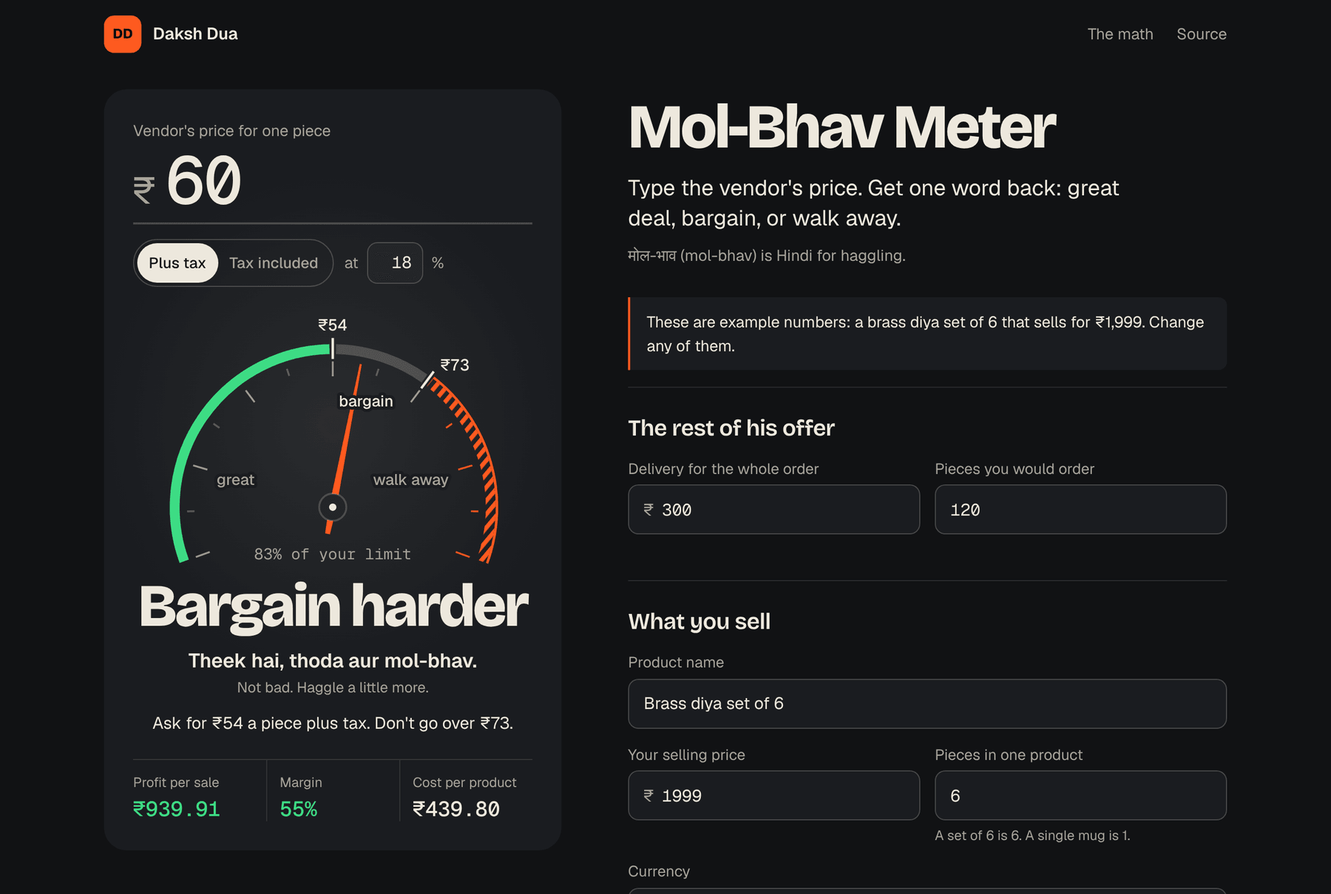
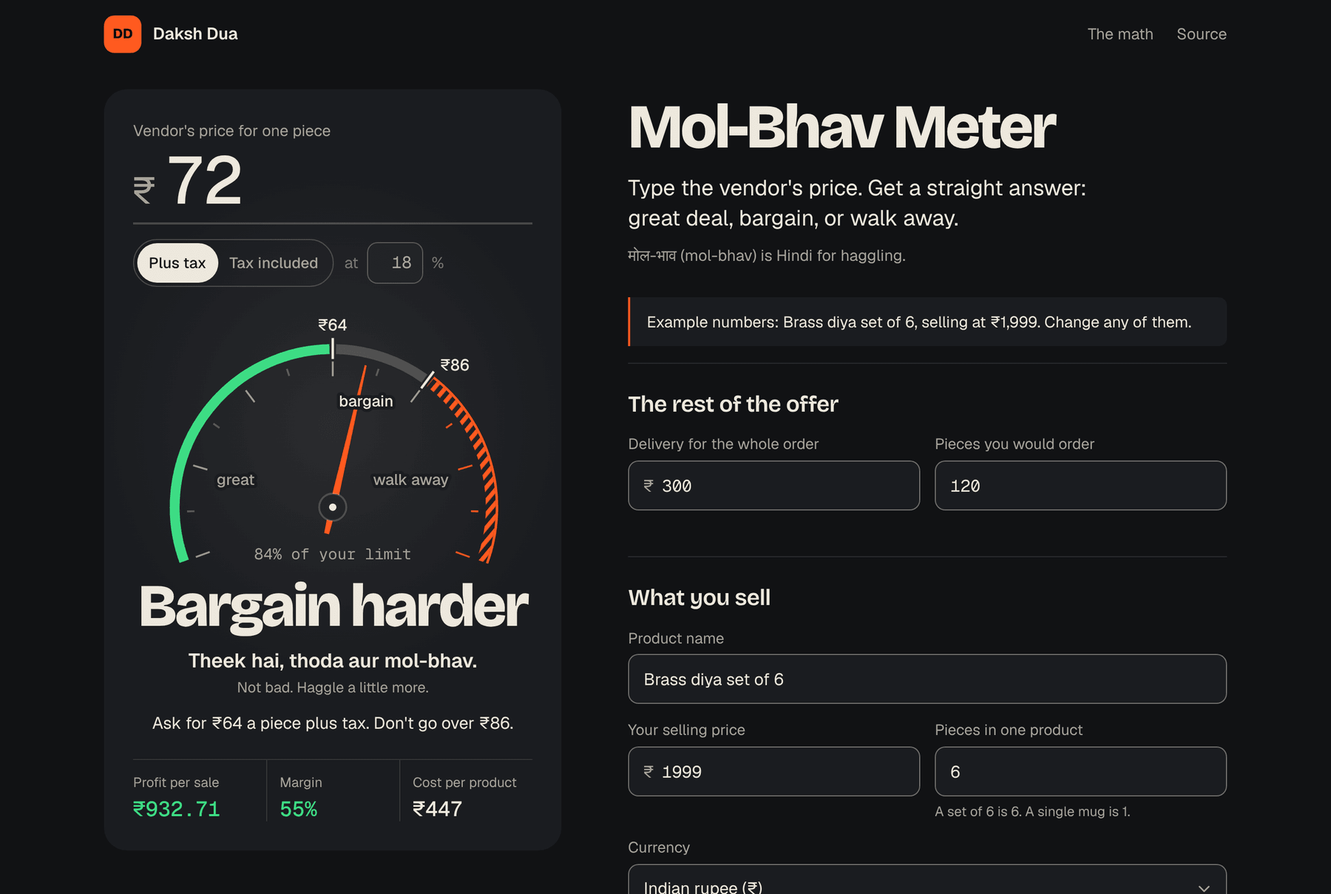
Update docs and screenshots to match the reviewed build
Claude-Session: https://claude.ai/code/session_01SZKJ7kb66Bw7uYQ5yCEDmx

diff --git a/docs/CTO-NOTES.md b/docs/CTO-NOTES.md
@@ -41,7 +41,7 @@ A pure function gets numbers in and gives numbers out, and does nothing else. Sa
 
 ### Unit tests, and one property test
 
-A unit test is a tiny program that runs your code with known inputs and checks the answer. There are 53 here. Most check one hand-picked example. One is different: it invents 500 random deals and checks a rule that must hold for all of them ("if the vendor quotes exactly what we told you to ask for, the cost lands exactly on the line"). That's a property test.
+A unit test is a tiny program that runs your code with known inputs and checks the answer. There are dozens here. Most check one hand-picked example. One is different: it invents 500 random deals and checks a rule that must hold for all of them ("if the vendor quotes exactly what we told you to ask for, the cost lands exactly on the line"). That's a property test.
 
 - **See it:** [`src/core/meter.test.ts`](../src/core/meter.test.ts). Read the test names top to bottom; they're written as plain sentences, so the file doubles as a spec.
 - **Run it:** `npm test`.
@@ -57,23 +57,23 @@ TypeScript is JavaScript where every value has a declared shape. `Shop` and `Off
 
 ### State in a link
 
-The whole deal (all 15 inputs, from your selling price to the vendor's tax rate) is packed into the address: `?price=1999&quote=60&...`. That one trick is both the "remember my numbers" feature and the "share with my partner" feature, with no server and no accounts.
+The whole deal (all 15 inputs, from your selling price to the vendor's tax rate) is packed into a link: `#price=1999&quote=72&...`. That one trick is both the "remember my numbers" feature and the "share with my partner" feature, with no server and no accounts. It sits after the `#` on purpose: browsers never send that part of an address to the website, so the numbers go from one person to the other and nowhere else.
 
 - **See it:** `encodeDeal()` and `decodeDeal()` in [`src/core/deal.ts`](../src/core/deal.ts).
 - **Try it:** press **Copy link**, paste it in a private window.
-- **Say it:** "State lives in the URL, so sharing is free and there is nothing to breach."
+- **Say it:** "State lives in the URL fragment, so sharing needs no backend and the numbers never reach a server."
 
 ### Offline with a service worker
 
 A service worker is a small script the browser keeps on the phone for one site. Ours saves a copy of the app the first time it opens. After that the meter opens with no signal.
 
-- **See it:** [`public/sw.js`](../public/sw.js) (about 50 lines, most of them comments) and [`scripts/stamp-sw.mjs`](../scripts/stamp-sw.mjs), which stamps each build with a version made from the files' contents.
+- **See it:** [`public/sw.js`](../public/sw.js) (short, and commented line by line) and [`scripts/stamp-sw.mjs`](../scripts/stamp-sw.mjs), which stamps each build with a version made from the files' contents.
 - **Try it:** open the live site, switch to airplane mode, reload.
-- **Say it:** "It's an offline-first PWA. The cache is versioned by content hash, so users never get a half-old, half-new app."
+- **Say it:** "It's a PWA that works offline. The app is saved on the first visit, and each build's cache is named by a hash of its contents, so a new build replaces the old one cleanly."
 
 ### CI/CD
 
-CI means a robot runs the tests on every push. CD means that if they pass, the robot also deploys. The whole pipeline is one file.
+CI means a robot runs the tests on every push to main and every pull request. CD means that if they pass on main, the robot also deploys. The whole pipeline is one file.
 
 - **See it:** [`.github/workflows/ship.yml`](../.github/workflows/ship.yml), and the **Actions** tab on GitHub for the live runs.
 - **Say it:** "Main is always deployable. A failing test blocks the release automatically; nobody has to remember to check."
@@ -84,9 +84,10 @@ CI means a robot runs the tests on every push. CD means that if they pass, the r
 | --- | --- |
 | How a verdict is decided | `src/core/meter.ts` |
 | What "great" means (the 75% rule) | `GREAT_FRACTION` at the top of `meter.ts` |
-| Any sentence, saying or the WhatsApp text | `src/core/words.ts` |
+| Anything the meter says: verdicts, sayings, coaching, the WhatsApp text | `src/core/words.ts` |
+| A fixed label on the form | `index.html` |
 | How money is shown, or add a currency | `src/core/format.ts` |
-| The opening example | `EXAMPLE` in `src/core/deal.ts` |
+| The opening example | `EXAMPLE` in `src/core/deal.ts` (some tests expect its numbers, so they'll tell you what else to update) |
 | A colour or a font | `src/styles/brand.css` |
 | Layout and spacing | `src/styles/app.css` |
 | The boxes on the page | `index.html` |
@@ -98,11 +99,11 @@ CI means a robot runs the tests on every push. CD means that if they pass, the r
 | What you see | Likely cause | Where to look | How to check |
 | --- | --- | --- | --- |
 | A number looks wrong | The math, or the form feeding it the wrong box | `meter.ts`, then `readForm()` in `main.ts` | Open **Where the money goes** on the page and add it up by hand. Then write the deal as a test in `meter.test.ts`. If the test passes, the math is fine and the bug is in the wiring. |
-| Blank page | A JavaScript error on start-up | Browser console (right-click, Inspect, Console) | The error names the file and line. A missing `id` in `index.html` gives a message that says exactly which one. |
-| The site still shows the old version | The phone is using its saved copy | `public/sw.js` | Close every tab of the site and reopen. If that fixes it, all is well: the new worker takes over on the next visit by design. |
-| Red X on a commit | A test or the build failed in CI | GitHub, **Actions** tab, click the red run | The log shows the failing test by name. Nothing was deployed, so the live site is still the last good version. |
-| Green check, but the site didn't change | Pages isn't set to deploy from Actions | Repo **Settings**, **Pages**, **Source** | It must say **GitHub Actions**. |
-| A shared link opens the example instead | The link was cut off when pasted | `decodeDeal()` in `deal.ts` | It needs `quote=` in it. Anything else missing falls back to the example's value on purpose. |
+| The page shows, but typing does nothing | A JavaScript error on start-up | Browser console (right-click, Inspect, Console) | The error names the file and line. A missing `id` in `index.html` gives a message that says exactly which one. |
+| The site still shows the old version a few minutes after a deploy | GitHub Pages tells browsers they may reuse files for 10 minutes | Nothing to fix | Wait ten minutes, or hard-refresh. If it's still old, check the Actions tab: the deploy may not have run. |
+| Red X on the very first push, at "Ask GitHub where this site will live" | Pages isn't switched on for the repo | Repo **Settings**, **Pages**, **Source** | Set it to **GitHub Actions**, then press **Re-run jobs** on the failed run. |
+| Red X on a later commit | A test or the build failed in CI | GitHub, **Actions** tab, click the red run | The log shows the failing test by name. Nothing was deployed, so the live site is still the last good version. |
+| A shared link opens the wrong numbers | The link was cut off when pasted | `decodeDeal()` in `deal.ts` | It needs `quote=` after the `#`. Without it the page opens your last numbers, or the example on a first visit. Any other missing piece falls back to the example's value on purpose. |
 | Works on my laptop, not on a phone | Old browser | `tsconfig.json` and `vite.config.ts` target ES2022 | Any phone updated since 2022 is fine. |
 
 **The one debugging habit that matters:** reproduce it as a test first. A bug you can trigger with a test is a bug you can fix once and keep fixed.
@@ -113,14 +114,14 @@ Five real changes, easiest first. Each one is a commit with your name on it. You
 
 1. **Add a saying.** In `src/core/words.ts`, add a line to one of the `SAYINGS` lists, in your own words. *Done when:* it shows up on the live site for some price.
 2. **Add a currency.** In `src/core/format.ts`, add Australian dollars: `AUD: { locale: 'en-AU', label: 'Australian dollar ($)' }`. *Done when:* it's in the Currency menu and the tests still pass.
-3. **Change the rule.** Set `GREAT_FRACTION` in `meter.ts` to `0.8` and push. *Done when:* CI goes red. Read the log, see which tests caught you, then decide: change it back, or update the tests to the new rule. That red X is the safety net doing its job.
+3. **Change the rule.** Set `GREAT_FRACTION` in `meter.ts` to `0.8` and push. *Done when:* CI goes red. Read the log, see which tests caught you, then decide: change it back, or update the tests (and the 75% in the docs) to the new rule. That red X is the safety net doing its job.
 4. **Write a test.** Take a real quote from a real vendor call and add it to `meter.test.ts` as a new `it(...)`, with the verdict you expect. *Done when:* it passes, or it fails and you've found a bug.
-5. **Add a field.** Add "customs duty %" for imported goods. It touches every layer: the `Offer` type, the math in `judge()`, a test, a box in `index.html`, and two lines in `main.ts`. *Done when:* a 10% duty on the example moves the verdict and a new test proves it. This is the one to talk through with Claude; ask it to explain each change before you accept it.
+5. **Add a field.** Add "customs duty %" for imported goods. It touches every layer: the `Offer` type and the math in `judge()` (`meter.ts`); `EXAMPLE`, `encodeDeal()` and `decodeDeal()` (`deal.ts`); the `Offer` objects in the tests; a box in `index.html`; and `fillForm()` and `readForm()` in `main.ts`. The build will refuse to pass until every one of them is done, which is the type checker being your checklist. *Done when:* a 30% duty flips the opening example from "Bargain harder" to "Walk away" and a new test proves it. This is the one to talk through with Claude; ask it to explain each change before you accept it.
 
 ## 6. Questions you should be ready for
 
 **Why no React?**
-One screen, fifteen inputs, one output. React alone is several times the size of this entire app. The structure a framework gives you (logic separate from view) is here anyway, done by hand.
+One screen, fifteen inputs, one output. React alone is several times the size of this app's JavaScript. The structure a framework gives you (logic separate from view) is here anyway, done by hand.
 
 **How do you know the math is right?**
 Three ways. A worked example checked by hand to the paisa. Edge cases for every tax combination and for garbage input. And a property test across 500 random deals.
@@ -129,7 +130,7 @@ Three ways. A worked example checked by hand to the paisa. Edge cases for every 
 The service worker saved every file on the first visit. The page itself is fetched fresh when there's a connection, so updates arrive, and falls back to the saved copy when there isn't.
 
 **Where is the data stored?**
-On the device only, in the browser's local storage, as the same text that goes into a share link. There is no server to send it to.
+On the device only, in the browser's local storage, as the same text that goes into a share link. There is no server to send it to. A share link carries the numbers after the `#`, which browsers don't transmit.
 
 **What would you build next?**
 Saving vendors and comparing quotes side by side, because the second call is where bargaining power comes from. That needs a small local database (IndexedDB), still with no server.

diff --git a/README.md b/README.md
@@ -1,6 +1,6 @@
 # Mol-Bhav Meter
 
-**A vendor says a price. You get one word back: great deal, bargain, or walk away.**
+**A vendor says a price. You get a straight answer: great deal, bargain, or walk away.**
 
 [**Try it live**](https://GITHUB_USERNAME.github.io/mol-bhav-meter/) on any phone. Free, no sign-up, works with no signal.
 
@@ -8,14 +8,14 @@
 [![License: MIT](https://img.shields.io/badge/license-MIT-FF5A1F.svg)](LICENSE)
 
 <p align="center">
-  <img src="docs/screenshots/demo.gif" width="340" alt="The meter's needle swinging from great deal to walk away as the vendor's price changes">
+  <img src="docs/screenshots/demo.gif" width="340" alt="The meter's needle swinging between great deal, walk away and bargain harder as the vendor's price changes">
 </p>
 
 Mol-bhav (मोल-भाव) is Hindi for haggling. In Delhi, where I'm from, it's a sport. The problem is that nobody does the math while they're playing.
 
 ## Why I built it
 
-The first version was for my dad. He's on the phone with a vendor. The vendor says "60 a piece, GST extra, 300 for delivery." Dad has about four seconds to say yes, push back, or hang up.
+It started as a one-page tool for my dad. He's on the phone with a vendor. The vendor says "72 a piece, GST extra, 300 for delivery." Dad has about four seconds to say yes, push back, or hang up.
 
 The right answer depends on six other numbers: what the product sells for, how many pieces go into one set, sales tax, payment fees, shipping and the box. Nobody carries that in their head on a call.
 
@@ -25,17 +25,19 @@ So I put all of it behind one number you type and one dial you read. The dial is
 - **Needle in the grey:** you have room. The meter gives you the exact price to ask for.
 - **Needle past the redline:** say thank you and hang up.
 
-![Three verdicts: great deal at ₹45, bargain harder at ₹60, walk away at ₹125](docs/screenshots/three-verdicts.png)
+![Three verdicts: great deal at ₹45, bargain harder at ₹72, walk away at ₹125](docs/screenshots/three-verdicts.png)
 
 ## What it does
 
-- **One number in, one word out.** Type the quote, read the verdict. No "Calculate" button.
-- **Tells you what to say next.** "Ask for ₹54 a piece plus tax. Don't go over ₹73." In the vendor's own terms, so you never convert in your head.
+- **One number in, one answer out.** Type the quote, read the verdict. No "Calculate" button.
+- **Tells you what to say next.** "Ask for ₹64 a piece plus tax. Don't go over ₹86." In the vendor's own terms, so you never convert in your head.
 - **Counts what vendors leave out.** Tax you can't claim back, delivery spread across the order, and the leftover pieces that don't fill a set.
 - **Shares the whole deal in a link.** Your partner opens it and sees the same numbers. There's a WhatsApp summary too.
-- **Works with no signal.** Open it once and it's saved on your phone. Markets and warehouses have terrible reception.
-- **Keeps your numbers yours.** Nothing you type leaves your phone. No account, no ads, no tracking.
-- **Six currencies.** ₹, C$, US$, £, € and AED.
+- **Works with no signal.** Open it once and it's saved on your phone. Add it to your home screen and it stays there. Markets and warehouses have terrible reception.
+- **Keeps your numbers yours.** No server, no account, no ads, no tracking. A share link carries the numbers inside the link itself, in the part browsers never send to a website.
+- **Six currencies.** Rupees, Canadian and US dollars, pounds, euros and dirhams.
+
+![The meter on a laptop: the dial stays pinned on the left while the form scrolls on the right](docs/screenshots/desktop.png)
 
 ## The math in 30 seconds
 
@@ -57,20 +59,20 @@ A brass diya set of 6, sold at ₹1,999, with a 50% profit target:
 | **Walk-away cost for the set** | **532.68** |
 | **Great deal for the set** | **399.51** |
 
-The vendor says ₹60 plus 18% tax, ₹300 delivery on 120 pieces. That's ₹73.30 a piece landed and ₹439.80 for the set. Over the great line, under the walk-away line. Verdict: **bargain harder**, and ask for ₹54.
+The vendor says ₹72 plus tax, ₹300 delivery on 120 pieces. This shop is GST-registered, so the tax on the vendor's bill comes back and doesn't count. That's ₹74.50 a piece landed and ₹447 for the set. Over the great line, under the walk-away line. Verdict: **bargain harder**. Ask for ₹64, and don't go over ₹86.
 
 The long version, with all four tax cases, is in [docs/THE-MATH.md](docs/THE-MATH.md).
 
 ## Run it yourself
 
-You need [Node.js](https://nodejs.org) 22 or newer.
+You need [Node.js](https://nodejs.org) 22.12 or newer.
 
 ```bash
 git clone https://github.com/GITHUB_USERNAME/mol-bhav-meter.git
 cd mol-bhav-meter
 npm install
 npm run dev     # the app, live-reloading, at http://localhost:5173
-npm test        # 53 tests in about a second
+npm test        # every test, in about a second
 npm run build   # the finished site, in dist/
 ```
 
@@ -80,20 +82,20 @@ npm run build   # the finished site, in dist/
 | --- | --- | --- |
 | TypeScript | The language | It catches "you passed a word where a number goes" before the app runs |
 | Vite | Builds the site | One command, about 150 ms |
-| Vitest | Runs the tests | 53 checks on the math, the wording and the links |
-| No framework | The screen | One screen doesn't need React. The whole app is about 6 kB of JavaScript once compressed |
+| Vitest | Runs the tests | Checks on the math, the wording and the links |
+| No framework | The screen | One screen doesn't need React. The app's JavaScript is about 7 kB once compressed |
 | Service worker | Offline | Saves the app on the phone the first time it opens |
-| GitHub Actions | Test, then deploy | Every push runs the tests. If one fails, nothing ships |
+| GitHub Actions | Test, then deploy | Every push to main and every pull request runs the tests. If one fails, nothing ships |
 | GitHub Pages | Hosting | Free |
 
 The map:
 
 ```
 src/
-  core/            the brain: no screen, no browser, just numbers
+  core/            the brain: no screen, no browser, just numbers and words
     meter.ts       the deal math. Start here.
     deal.ts        turns a deal into a link and back
-    words.ts       every sentence the meter says
+    words.ts       every sentence the meter writes
     format.ts      money on screen
     *.test.ts      the tests, next to the code they check
   ui/dial.ts       draws the rev counter
@@ -104,17 +106,17 @@ scripts/stamp-sw.mjs  stamps each build with a version
 .github/workflows/ship.yml  test, then deploy
 ```
 
-Want the guided tour? [docs/CTO-NOTES.md](docs/CTO-NOTES.md) explains every idea in here in plain English, how to debug it, and five small changes to try.
+Want the guided tour? [docs/CTO-NOTES.md](docs/CTO-NOTES.md) explains every idea in here in plain English, how to debug it, and five small changes to try. The money side is in [docs/BUSINESS.md](docs/BUSINESS.md).
 
-## What I got wrong first
+## What got caught along the way
 
-- **Vendor tax.** Version one counted the tax on the vendor's bill as a cost for everybody. That's right for a shop that isn't tax-registered yet, and wrong the day the registration comes through. The same ₹60 quote flips from "bargain" to "great deal". It's one checkbox now, with a test on each side.
+- **Vendor tax.** The one-page version I made for my dad counted the tax on the vendor's bill as a cost for everybody. That's right for a shop that isn't tax-registered yet and wrong the day the registration comes through: the same quote can go from "bargain" to "great deal". It's one checkbox now, with tests on both sides.
 - **A link that lied by a hair.** A 9.975% tax rate went into a share link and came back as 9.975000000000001%. Computers count in binary and sometimes it shows. A test caught it before a person did.
-- **A dial that rounded the bad news.** The needle stops at 150%, so a quote at 169% of your limit used to read "150%". The needle still stops there. The number under it tells the truth now.
+- **Three things an outside review found that the tests had missed.** Before this went public it got a cold read from a second Claude session that hadn't seen it being built. It found that share links put the numbers where a web server could see them (they now ride after the `#`, which browsers keep to themselves). It found that on a wide screen the pinned dial slid over the math section. And it found a shop whose limit should have been exactly zero and came out as 0.000000000000007, so the meter said "come down to ₹0". All three are fixed, and the fixes are in the commit history.
 
 ## How this was built
 
-I build with Claude as my pair programmer. I bring the problem and decide what the thing should do. Claude writes most of the code. I review it until I can explain every file, and [the CTO notes](docs/CTO-NOTES.md) are my study guide, in public. Every commit carries the co-author line, so the history is honest about who typed what.
+I build with Claude as my pair programmer. I bring the problem and decide what the thing should do. Claude writes most of the code. I review it until I can explain every file, and [the CTO notes](docs/CTO-NOTES.md) are my study guide, in public. Every commit carries the co-author line.
 
 ## What's next
 

diff --git a/docs/THE-MATH.md b/docs/THE-MATH.md
@@ -13,7 +13,7 @@ great-deal cost = walk-away cost × 0.75
 ```
 
 - **Walk-away cost** is the most one product can cost you while still leaving the profit you asked for. One rupee over and you've missed your own target.
-- **Great-deal cost** is three quarters of that. It's a rule of thumb, not a law. Change `GREAT_FRACTION` in `meter.ts` if your business runs tighter or looser.
+- **Great-deal cost** is three quarters of that. It's a rule of thumb, not a law. Change `GREAT_FRACTION` in `meter.ts` if your business runs tighter or looser; the page picks the new figure up, the docs you'd update by hand.
 - **Profit target** is a share of sales *after* tax, because the tax was never yours.
 - **Fees** are a share of the full selling price, because that's what payment gateways charge on.
 
@@ -34,7 +34,7 @@ A brass diya set of 6, sold at ₹1,999. Sales tax 18%, fees 4.72%, shipping ₹
 
 That's ₹88.78 a diya to walk away, ₹66.59 a diya for great.
 
-## 2. His side: the landed cost
+## 2. The vendor's side: the landed cost
 
 A vendor's price is never the whole price. Two things get added.
 
@@ -45,14 +45,14 @@ cost per product      = landed cost per piece × pieces in one product
 
 ### The tax multiplier
 
-Whether the tax on the vendor's bill is a real cost depends on two things: how he quoted, and whether you can claim it back.
+Whether the tax on the vendor's bill is a real cost depends on two things: how the price was quoted, and whether you can claim the tax back.
 
-| He says | You're not tax-registered | You're tax-registered |
+| The vendor says | You can't claim tax back | You're tax-registered and can |
 | --- | --- | --- |
-| "₹60 plus 18% tax" | you pay 60 × 1.18 = **70.80** | tax comes back, you pay **60.00** |
-| "₹60 all in" | you pay **60.00** | tax comes back, you pay 60 ÷ 1.18 = **50.85** |
+| "₹60 plus 18% tax" | you pay 60 × 1.18 = **70.80** | the tax comes back, you pay **60.00** |
+| "₹60 all in" | you pay **60.00** | the tax comes back, you pay 60 ÷ 1.18 = **50.85** |
 
-If you can't claim tax back, the rate only matters when he quotes "plus tax". If you can, it always matters. The meter dims the rate box when it makes no difference.
+So the vendor's tax rate changes the answer in two of the four boxes: "plus tax" when you can't claim it back, and "all in" when you can. In the other two it makes no difference, and the meter dims the rate box to say so.
 
 ### Delivery
 
@@ -60,12 +60,21 @@ If you can't claim tax back, the rate only matters when he quotes "plus tax". If
 
 ### The example, continued
 
-"₹60 plus 18% tax, ₹300 delivery, 120 pieces", not tax-registered:
+The shop is tax-registered. The vendor says "₹72 plus 18% tax, ₹300 delivery, 120 pieces".
 
 ```
-landed per piece = 60 × 1.18 + 300 ÷ 120 = 70.80 + 2.50 = 73.30
-cost per set     = 73.30 × 6             = 439.80
+landed per piece = 72 × 1 + 300 ÷ 120 = 72.00 + 2.50 = 74.50
+cost per set     = 74.50 × 6          = 447.00
 ```
+
+The same quote to a shop that can't claim the tax back:
+
+```
+landed per piece = 72 × 1.18 + 2.50 = 84.96 + 2.50 = 87.46
+cost per set     = 87.46 × 6        = 524.76
+```
+
+Same vendor, same words, and one shop has room to spare while the other is ₹8 from its limit. That is why "I'm tax-registered" is a checkbox and not an assumption.
 
 ## 3. The comparison
 
@@ -75,26 +84,26 @@ cost per set     = 73.30 × 6             = 439.80
 | over that, but at or under the walk-away cost | **Bargain harder** |
 | over the walk-away cost | **Walk away** |
 
-₹439.80 is over ₹399.51 and under ₹532.68, so: **bargain harder**.
+For the registered shop, ₹447.00 is over ₹399.51 and under ₹532.68, so: **bargain harder**. The cost is 84% of the limit, which is the small number under the needle.
 
 ```
-profit per sale = 1,694.07 − 94.35 − 100 − 120 − 439.80 = 939.92
-margin          = 939.92 ÷ 1,694.07                     = 55%
+profit per sale = 1,694.07 − 94.35 − 100 − 120 − 447.00 = 932.72
+margin          = 932.72 ÷ 1,694.07                     = 55%
 ```
 
-(The app shows ₹939.91. It keeps every decimal until the last moment and the true figure is 939.915; rounding each step by hand, as above, drifts by a paisa.)
+(The app shows ₹932.71. It keeps every decimal until the last moment, and the true figure is 932.71499…; rounding each step by hand, as above, drifts by a paisa.)
 
 ## 4. Working backwards: what to ask for
 
-The meter also runs the landed-cost formula in reverse, to turn each line back into a price the vendor can say yes to, **in his own terms**.
+The meter also runs the landed-cost formula in reverse, to turn each line back into a price the vendor can say yes to, **in the vendor's own terms**.
 
 ```
 quote for a cost level = (cost level ÷ pieces in one product − delivery share) ÷ tax multiplier
 ```
 
 ```
-great:     (399.51 ÷ 6 − 2.50) ÷ 1.18 = 54.31   ->  "Ask for ₹54"
-walk away: (532.68 ÷ 6 − 2.50) ÷ 1.18 = 73.12   ->  "Don't go over ₹73"
+great:     (399.51 ÷ 6 − 2.50) ÷ 1 = 64.08   ->  "Ask for ₹64"
+walk away: (532.68 ÷ 6 − 2.50) ÷ 1 = 86.28   ->  "Don't go over ₹86"
 ```
 
 Counter-offers are always rounded **down**. A lower ask can only help you.
@@ -112,7 +121,9 @@ Leftovers are pieces you paid for and can't sell as a full product, so they come
 
 ## 6. When nothing works
 
-If your own fees, shipping and packing already eat everything the profit target leaves, the walk-away cost is zero. No vendor price can fix that, so the meter says so and points at your numbers instead of his: lower the target, or raise your price.
+If your own fees, shipping and packing already eat everything the profit target leaves, the walk-away cost is zero. No vendor price can fix that, so the meter says so and points at your numbers instead of the vendor's: lower the target, or raise your price.
+
+Anything under half the smallest coin counts as zero here. Computers leave crumbs like 0.000000000000007 when they divide, and a limit that small is not a limit.
 
 ## What the meter does not know
 

diff --git a/docs/BUSINESS.md b/docs/BUSINESS.md
@@ -72,10 +72,11 @@ Code doesn't produce those sales. Distribution does. Fifty-six strangers have to
 1. Ship the free meter.
 2. Add a "Get the Vendor Desk kit" link that goes to a waitlist form. Nothing to buy yet.
 3. Put the meter in front of sellers: three short videos of real quotes going through it, plus posts in seller communities where sharing tools is welcome.
-4. Count three numbers: visits, people who typed a quote, waitlist sign-ups.
+4. Count two numbers: clicks on the links I post (a tagged short link per post) and waitlist sign-ups. The meter itself has no tracking and that isn't changing, so I count at the doors, not inside the room.
 
 **Go:** 25 or more sign-ups in a week. Build the kit and email them.
 **No-go:** fewer than 5. The tool is fine, the offer is wrong. Change the offer, not the code.
+**In between:** run one more week with a different audience before deciding.
 
 ## What I don't know yet
 
@@ -87,4 +88,4 @@ Code doesn't produce those sales. Distribution does. Fifty-six strangers have to
 
 - No ads and no selling data. The meter doesn't collect any, so there's nothing to sell.
 - Anything paid has a refund button.
-- Tax rates are typed by the user. The meter is a calculator and says so.
+- Tax rates are typed by the user. The meter is a calculator, not tax advice, and the page says so.
